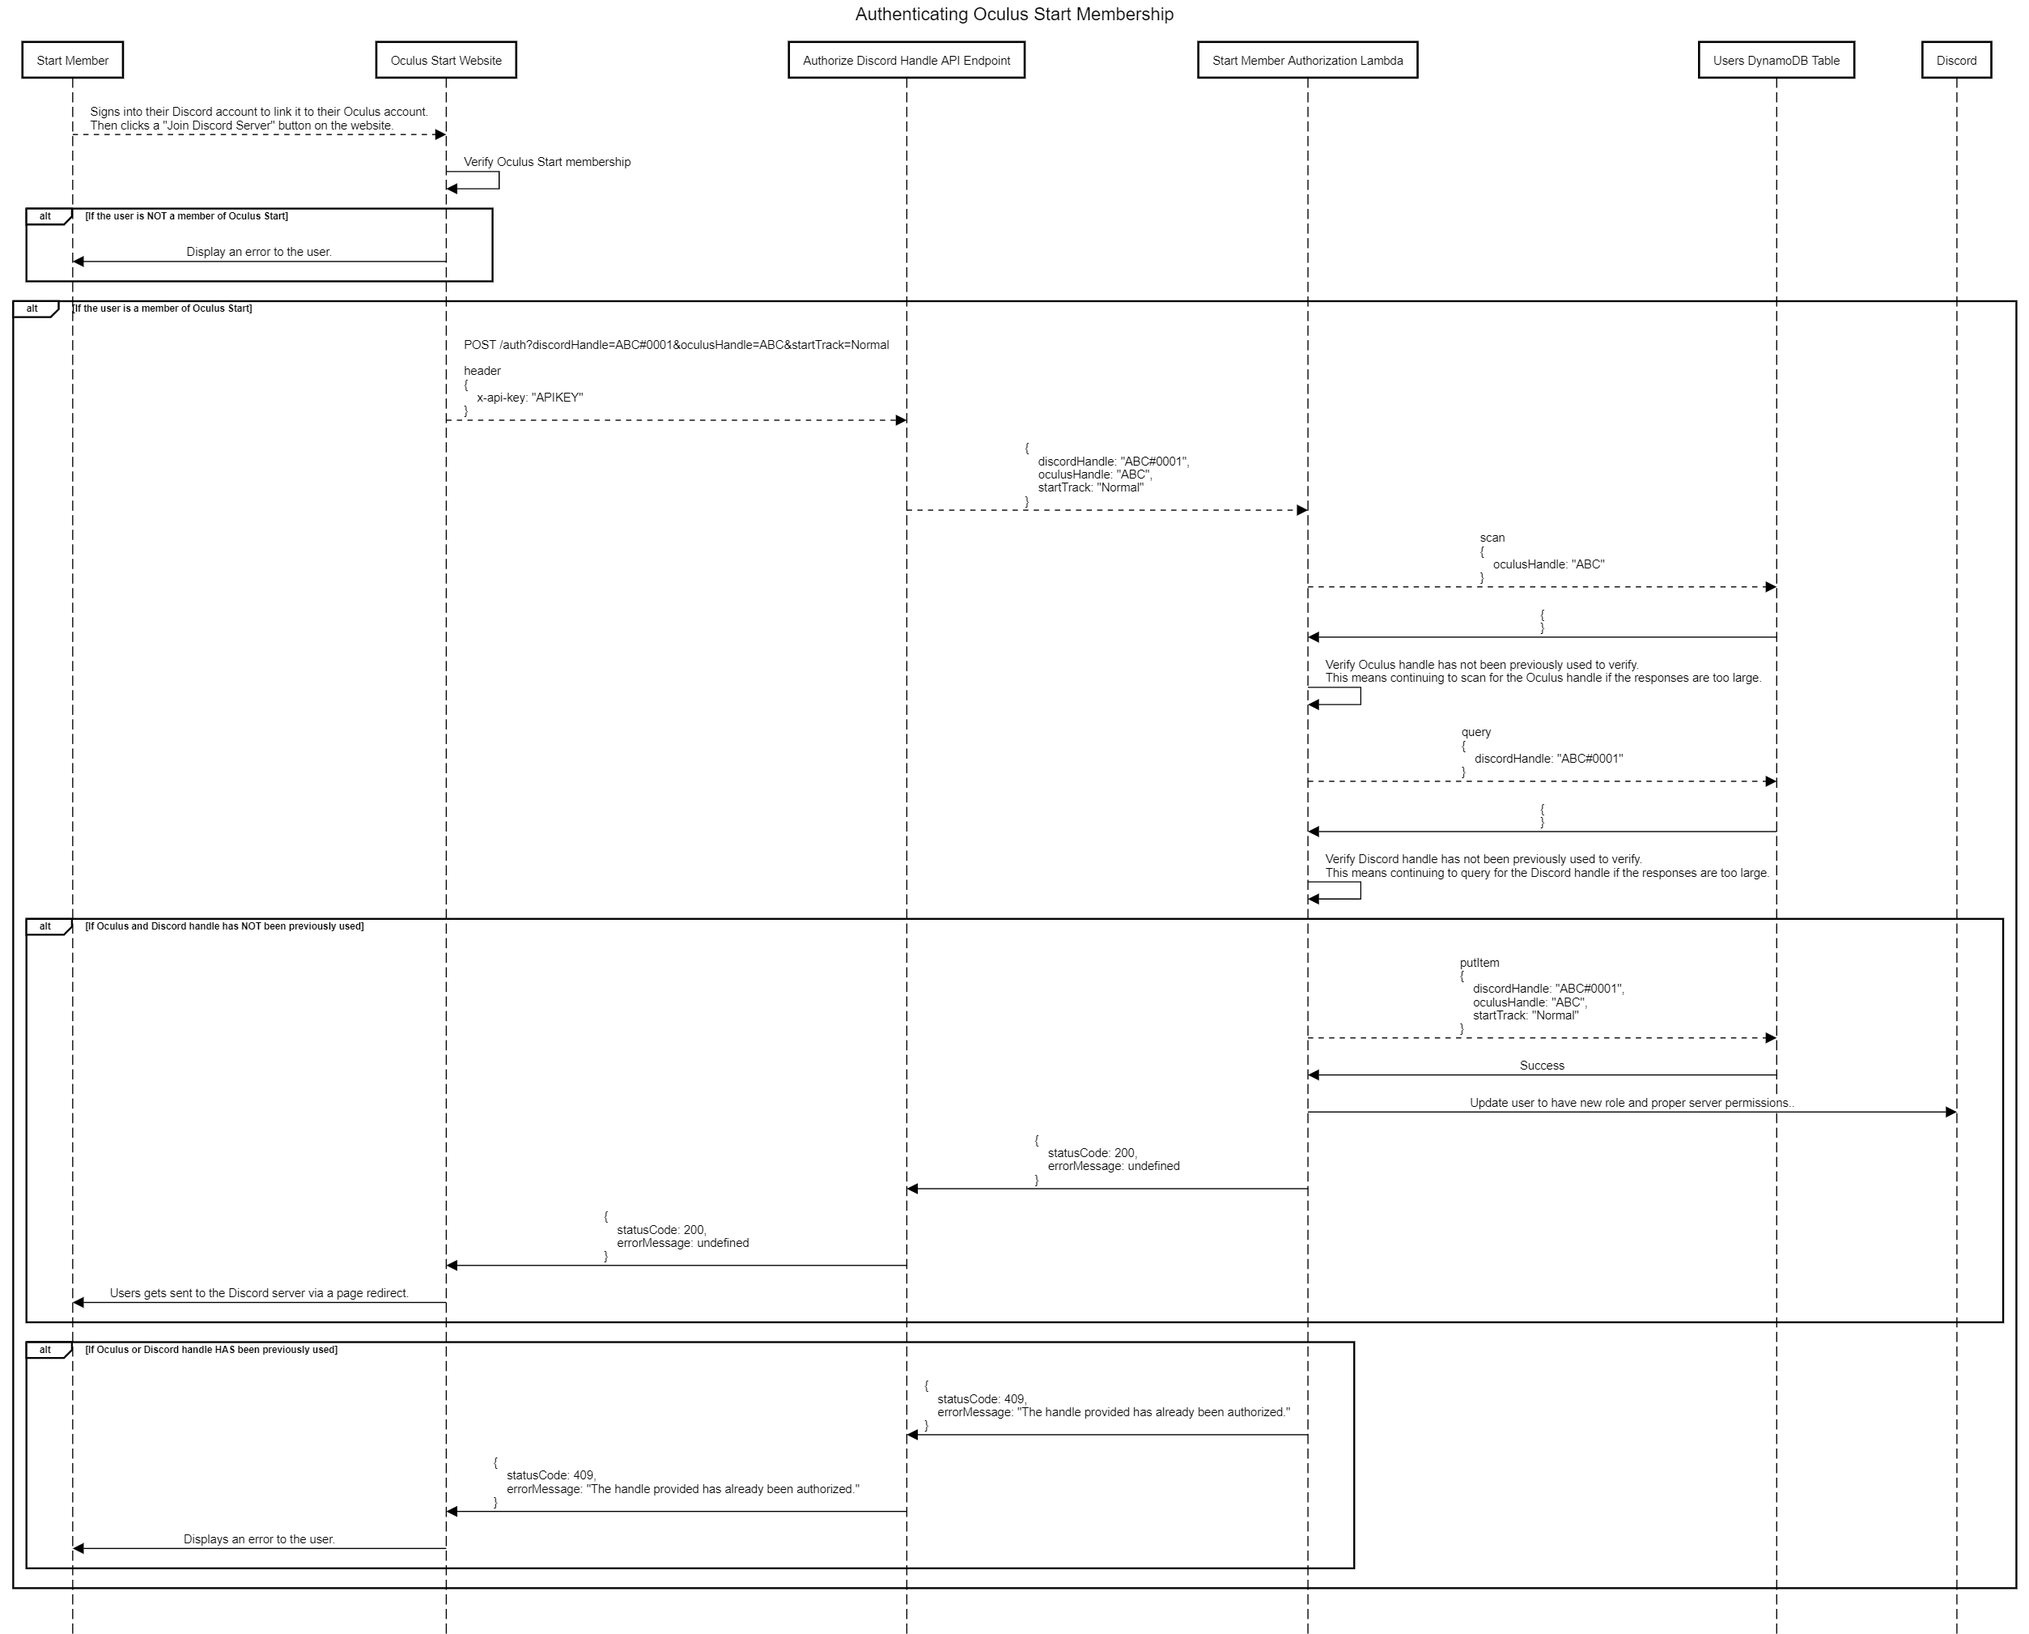
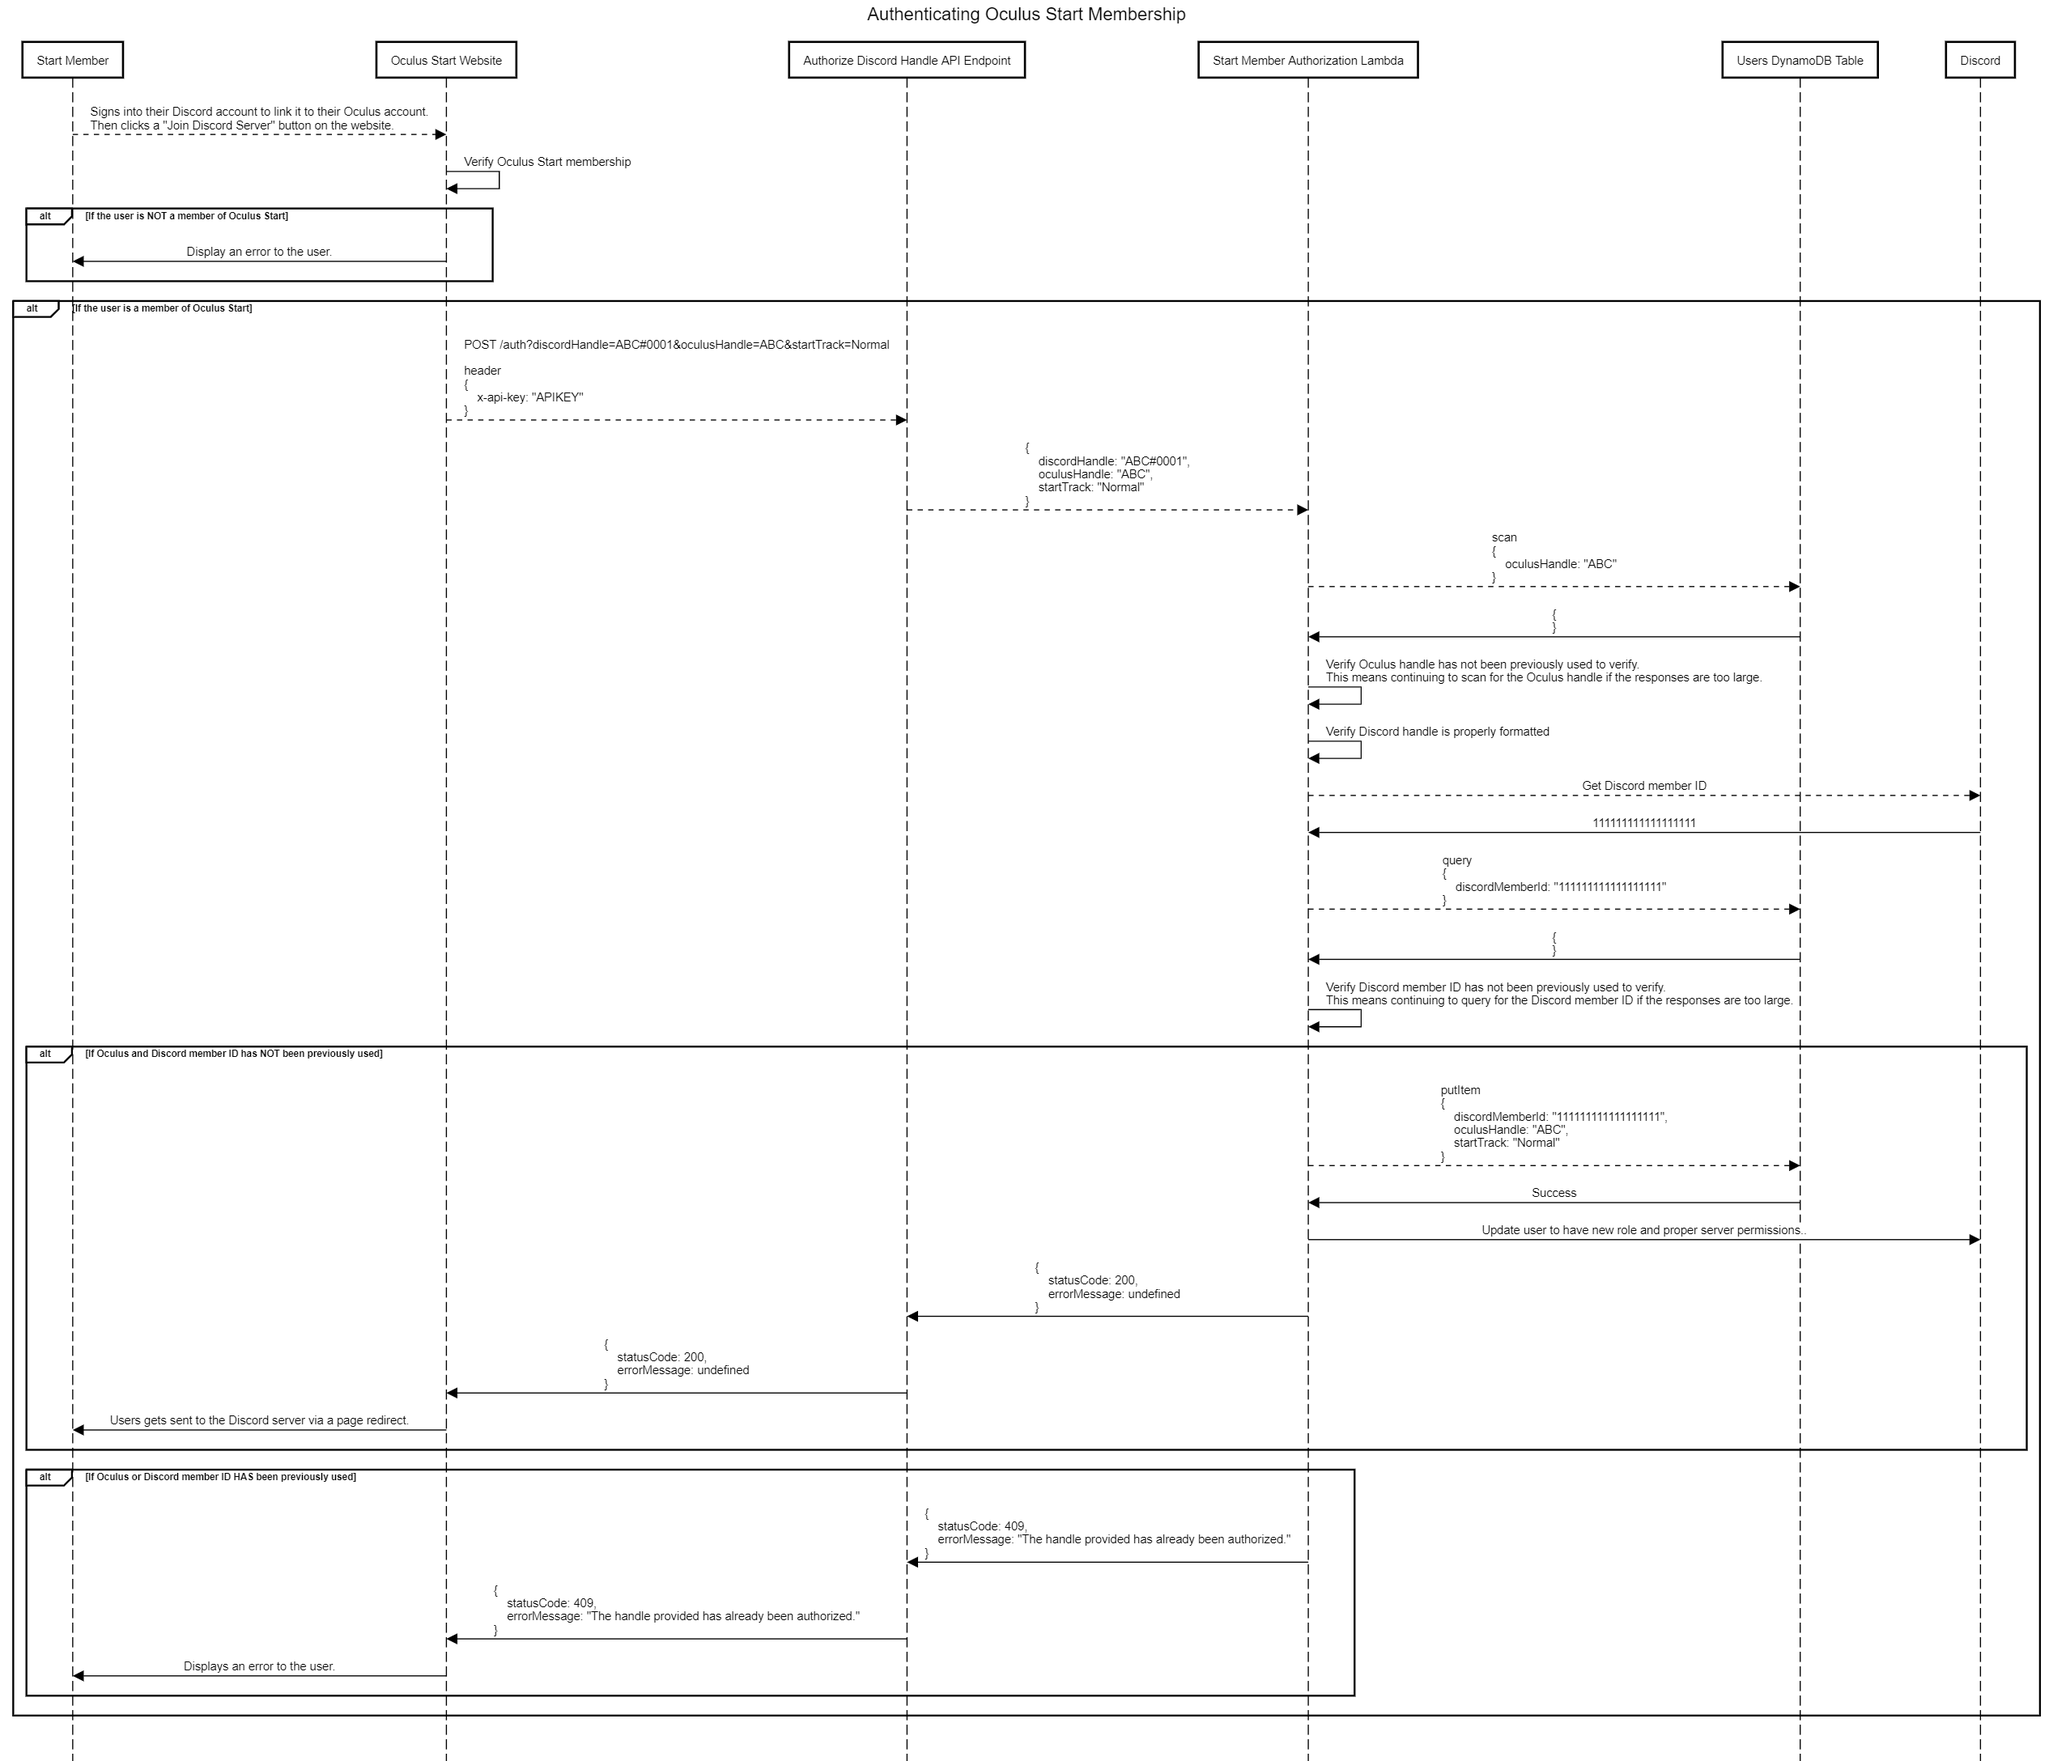
Update Documentation
[Problem]
Documentation is still focused around Discord handles instead of Discord
IDs.

[Solution]
Updated the documentation to reflect the new architecture.

[Testing]
N/A

diff --git a/test/functions/utils/Users.test.ts b/test/functions/utils/Users.test.ts
@@ -276,7 +276,7 @@ describe('Test Users Utils', () => {
         expect(mockDynamoDB.scan().promise).toBeCalledTimes(2);
     });
     
-    test('Verify Discord Handle - No Results Success', async() => {
+    test('Verify Discord Member - No Results Success', async() => {
         mockQuery.promise.mockResolvedValueOnce({});
         expect(await Users.discordMemberExists({
             deaf: false,
@@ -290,7 +290,7 @@ describe('Test Users Utils', () => {
         expect(mockDynamoDB.query().promise).toBeCalledTimes(1);
     });
 
-    test('Verify Discord Handle - Empty Results Success', async() => {
+    test('Verify Discord Member - Empty Results Success', async() => {
         mockQuery.promise.mockResolvedValueOnce({
             Items: [],
             Count: 0
@@ -307,7 +307,7 @@ describe('Test Users Utils', () => {
         expect(mockDynamoDB.query().promise).toBeCalledTimes(1);
     });
 
-    test('Verify Discord Handle - Multiple Empty Results Success', async() => {
+    test('Verify Discord Member - Multiple Empty Results Success', async() => {
         mockQuery.promise.mockResolvedValueOnce({
             Items: [],
             Count: 0,
@@ -330,7 +330,7 @@ describe('Test Users Utils', () => {
         expect(mockDynamoDB.query().promise).toBeCalledTimes(2);
     });
 
-    test('Verify Discord Handle - Failure', async() => {
+    test('Verify Discord Member - Failure', async() => {
         mockQuery.promise.mockResolvedValueOnce({
             Items: [
                 {
@@ -356,7 +356,7 @@ describe('Test Users Utils', () => {
         expect(mockDynamoDB.query().promise).toBeCalledTimes(1);
     });
 
-    test('Verify Discord Handle - Multiple Empty Results Failure', async() => {
+    test('Verify Discord Member - Multiple Empty Results Failure', async() => {
         mockQuery.promise.mockResolvedValueOnce({
             Items: [],
             Count: 0,

diff --git a/src/functions/utils/Users.ts b/src/functions/utils/Users.ts
@@ -83,8 +83,8 @@ export async function oculusHandleExists(oculusHandle: string): Promise<boolean>
 }
 
 /**
- * Checks to see if a Discord handle has already been registered.
- * @param {DiscordMember} discordMember The Discord handle to check and see if has already been registered.
+ * Checks to see if a Discord member has already been registered.
+ * @param {DiscordMember} discordMember The Discord member to check and see if has already been registered.
  */
 export async function discordMemberExists(discordMember: DiscordMember): Promise<boolean> {
     var queryParams: QueryInput = {

diff --git a/test/functions/UserAuth.test.ts b/test/functions/UserAuth.test.ts
@@ -93,7 +93,7 @@ describe('Test UserAuth', () => {
             startTrack: 'Normal'
         }, (null as unknown) as Context, (null as unknown) as Callback)).toStrictEqual({
             statusCode: 409,
-            errorMessage: 'This user has already registered their Discord handle before!'
+            errorMessage: 'This user has already registered their Discord account before!'
         });
         expect(mockOculusHandleExists).toHaveBeenCalledTimes(1);
         expect(mockGetDiscordMember).toHaveBeenCalledTimes(0);

diff --git a/src/functions/UserAuth.ts b/src/functions/UserAuth.ts
@@ -37,7 +37,7 @@ export async function handler(event: UserAuthRequest, context: Context, callback
     if (await oculusHandleExists(event.oculusHandle)) {
       return {
         statusCode: 409,
-        errorMessage: 'This user has already registered their Discord handle before!',
+        errorMessage: 'This user has already registered their Discord account before!',
       };
     }
 

diff --git a/README.md b/README.md
@@ -21,11 +21,13 @@ To deploy the infrastructure, you will want to do the following:
 {
   "appId": "XXXXX",
   "publicKey": "XXXXX",
-  "clientId": "XXXXX"
+  "clientId": "XXXXX",
+  "authToken": "XXXXX",
+  "serverId": "XXXXX"
 }
 ```
 5. Run `npm run config`  - Sets up the Discord server's Slash Commands and other configuration properties. This uses your secrets configured above so that you can securely deploy everything.
-6. Going back into your AWS Account, add API Keys and associate them with the bot's API Gateway endpoints to authorize others to call the bots commands.
+6. Going back into your AWS Account, add API Keys and associate them with the Start API Gateway endpoints to authorize others to call the bots commands.
 
 At this stage, you should be able to use the bot on your server and use the various REST APIs! Note that there may be some time delays as things propogate through the system, so you may need to wait for some time (for example: Discord can be slow when updating the available Slash Commands).
 
@@ -65,7 +67,7 @@ A user's projects are formatted as a JSON document. As an example project:
 |**Column**|name|startDate|endDate|maxPresentors|presentors|maxAttendees|attendees|
 |-|-|---|--------|-----|---------|-|-|
 |**Format**|string (Primary Key)|string of ISO8601 time format|string of ISO8601 time format|Number|List of strings|Number|List of strings|
-|**Description**|The name of the event.|The time at which the event starts.|The time at which the event ends.|The maximum number of presentors the event can have.|A list of Discord handles for people presenting at the event.|The maximum number of attendees an event can have.|A list of Discord handles for people attending the event.|
+|**Description**|The name of the event.|The time at which the event starts.|The time at which the event ends.|The maximum number of presentors the event can have.|A list of Discord user IDs for people presenting at the event.|The maximum number of attendees an event can have.|A list of Discord user IDs for people attending the event.|
 
 # User Flow Diagrams
 Users can interact with the bot in one of two primary ways: Via Discord with various commands from the bot, or via a website that uses the API endpoints. **As of this moment, the bot only accessible via the Discord commands. The user flows for the website examples are for potential future additions.**
